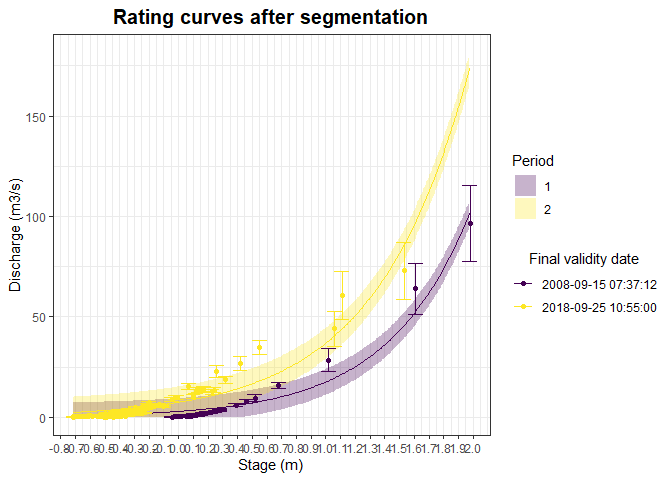
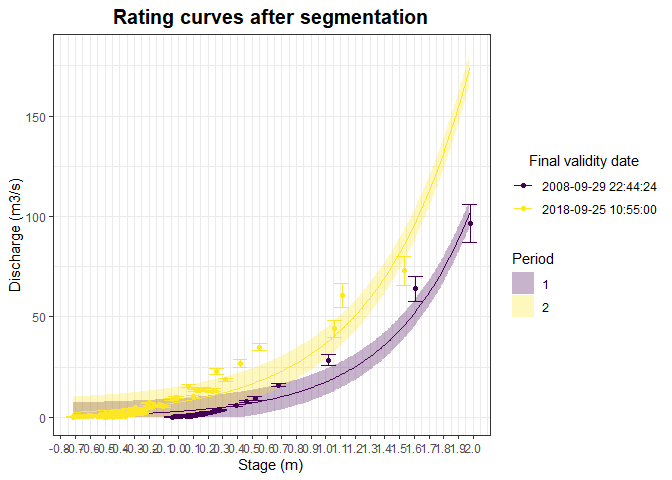
Update ReadMe: - Somme correction about Meyras case during analyzing hydraulic controls - Add new option to integrate uncertainty on gauged height

diff --git a/README.md b/README.md
@@ -291,7 +291,7 @@ be used to estimate the rating curve.
 # Get model available to estimate the rating curve
 GetCatalog()$models
 #> [1] "fitRC_loess"            "fitRC_BaRatinBAC"       "fitRC_BaRatinKAC"      
-#> [4] "fitRC_exponential"      "fitRC_LinearRegression"
+#> [4] "fitRC_exponential"      "fitRC_LinearRegression" "fitRecession_M3"
 
 # Get equation of each model
 GetCatalog()$Equations
@@ -334,14 +334,14 @@ knitr::kable(head(ArdecheRiverMeyrasGaugings),
               align = 'c',row.names = F)
 ```
 
-| Day | Month | Year | Hour | Minute | Second |        Date         |  H   |   Q   |   uQ    |
-|:---:|:-----:|:----:|:----:|:------:|:------:|:-------------------:|:----:|:-----:|:-------:|
-|  7  |  11   | 2001 |  16  |   30   |   0    | 2001-11-07 16:30:00 | 0.17 | 1.520 | 0.10640 |
-|  4  |  12   | 2001 |  14  |   45   |   0    | 2001-12-04 14:45:00 | 0.10 | 0.727 | 0.05089 |
-| 10  |   1   | 2002 |  14  |   0    |   0    | 2002-01-10 14:00:00 | 0.06 | 0.500 | 0.03500 |
-| 13  |   2   | 2002 |  16  |   45   |   0    | 2002-02-13 16:45:00 | 0.08 | 1.110 | 0.07770 |
-| 23  |   4   | 2002 |  17  |   45   |   0    | 2002-04-23 17:45:00 | 0.17 | 1.740 | 0.12180 |
-|  2  |   5   | 2002 |  13  |   40   |   0    | 2002-05-02 13:40:00 | 0.22 | 2.370 | 0.16590 |
+| Day | Month | Year | Hour | Minute | Second |        Date         |  H   |   Q   |   uQ   |
+|:---:|:-----:|:----:|:----:|:------:|:------:|:-------------------:|:----:|:-----:|:------:|
+|  7  |  11   | 2001 |  16  |   30   |   0    | 2001-11-07 16:30:00 | 0.17 | 1.520 | 0.0532 |
+|  4  |  12   | 2001 |  14  |   45   |   0    | 2001-12-04 14:45:00 | 0.10 | 0.727 | 0.0254 |
+| 10  |   1   | 2002 |  14  |   0    |   0    | 2002-01-10 14:00:00 | 0.06 | 0.500 | 0.0175 |
+| 13  |   2   | 2002 |  16  |   45   |   0    | 2002-02-13 16:45:00 | 0.08 | 1.110 | 0.0389 |
+| 23  |   4   | 2002 |  17  |   45   |   0    | 2002-04-23 17:45:00 | 0.17 | 1.740 | 0.0609 |
+|  2  |   5   | 2002 |  13  |   40   |   0    | 2002-05-02 13:40:00 | 0.22 | 2.370 | 0.0829 |
 
 ## Recursive model and segmentation procedure for an *unknown* number of segments
 
@@ -370,14 +370,14 @@ knitr::kable(head(results$summary$data),
              align = 'c',row.names = FALSE)
 ```
 
-|        time         |  H   |   Q   |   uQ    | Q_I95_lower | Q_I95_upper |   Qsim   |  uQ_sim  | Qsim_I95_lower | Qsim_I95_upper |   Qres    | period |
-|:-------------------:|:----:|:-----:|:-------:|:-----------:|:-----------:|:--------:|:--------:|:--------------:|:--------------:|:---------:|:------:|
-| 2001-11-07 16:30:00 | 0.17 | 1.520 | 0.10640 |  1.3114598  |  1.7285402  | 3.927984 | 3.281194 |   -2.503038    |   10.359006    | -2.407984 |   1    |
-| 2001-12-04 14:45:00 | 0.10 | 0.727 | 0.05089 |  0.6272574  |  0.8267426  | 3.462622 | 3.281194 |   -2.968400    |    9.893644    | -2.735622 |   1    |
-| 2002-01-10 14:00:00 | 0.06 | 0.500 | 0.03500 |  0.4314013  |  0.5685987  | 3.221893 | 3.281194 |   -3.209129    |    9.652915    | -2.721893 |   1    |
-| 2002-02-13 16:45:00 | 0.08 | 1.110 | 0.07770 |  0.9577108  |  1.2622892  | 3.340089 | 3.281194 |   -3.090933    |    9.771111    | -2.230090 |   1    |
-| 2002-04-23 17:45:00 | 0.17 | 1.740 | 0.12180 |  1.5012764  |  1.9787236  | 3.927984 | 3.281194 |   -2.503038    |   10.359006    | -2.187984 |   1    |
-| 2002-05-02 13:40:00 | 0.22 | 2.370 | 0.16590 |  2.0448420  |  2.6951580  | 4.298207 | 3.281194 |   -2.132815    |   10.729229    | -1.928207 |   1    |
+|        time         |  H   | uH  |   Q   |   uQ   | Q_I95_lower | Q_I95_upper |   Qsim   |  uQ_sim  | Qsim_I95_lower | Qsim_I95_upper |   Qres    | period |
+|:-------------------:|:----:|:---:|:-----:|:------:|:-----------:|:-----------:|:--------:|:--------:|:--------------:|:--------------:|:---------:|:------:|
+| 2001-11-07 16:30:00 | 0.17 |  0  | 1.520 | 0.0532 |  1.4157299  |  1.6242701  | 3.927984 | 3.281194 |   -2.503038    |   10.359006    | -2.407984 |   1    |
+| 2001-12-04 14:45:00 | 0.10 |  0  | 0.727 | 0.0254 |  0.6772169  |  0.7767831  | 3.462622 | 3.281194 |   -2.968400    |    9.893644    | -2.735622 |   1    |
+| 2002-01-10 14:00:00 | 0.06 |  0  | 0.500 | 0.0175 |  0.4657006  |  0.5342994  | 3.221893 | 3.281194 |   -3.209129    |    9.652915    | -2.721893 |   1    |
+| 2002-02-13 16:45:00 | 0.08 |  0  | 1.110 | 0.0389 |  1.0337574  |  1.1862426  | 3.340089 | 3.281194 |   -3.090933    |    9.771111    | -2.230090 |   1    |
+| 2002-04-23 17:45:00 | 0.17 |  0  | 1.740 | 0.0609 |  1.6206382  |  1.8593618  | 3.927984 | 3.281194 |   -2.503038    |   10.359006    | -2.187984 |   1    |
+| 2002-05-02 13:40:00 | 0.22 |  0  | 2.370 | 0.0829 |  2.2075190  |  2.5324810  | 4.298207 | 3.281194 |   -2.132815    |   10.729229    | -1.928207 |   1    |
 
 ``` r
 
@@ -388,7 +388,7 @@ knitr::kable(head(results$summary$shift),
 
 |         tau         |      I95_lower      |      I95_upper      | id_iteration |
 |:-------------------:|:-------------------:|:-------------------:|:------------:|
-| 2008-09-15 07:37:12 | 2006-09-15 20:12:07 | 2010-02-21 03:44:38 |      1       |
+| 2008-09-29 22:44:24 | 2006-11-17 21:03:57 | 2009-10-01 22:51:14 |      1       |
 
 ``` r
 
@@ -575,14 +575,14 @@ station](https://baratin-tools.github.io/en/doc/case/ardeche-meyras/#prior-speci
 
 ``` r
 # Set prior information to each hydraulic control 
-a1=RBaM::parameter(name='a1',init=14.17,prior.dist='LogNormal',prior.par=c(2.66,1.54))
-k1=RBaM::parameter(name='k1',init=-0.6,prior.dist='Gaussian',prior.par=c(-0.6,1))
+a1=RBaM::parameter(name='a1',init=14.17,prior.dist='Gaussian',prior.par=c(14.17,3.65))
+k1=RBaM::parameter(name='k1',init=-0.6,prior.dist='Gaussian',prior.par=c(-0.6,0.5))
 c1=RBaM::parameter(name='c1',init=1.5,prior.dist='Gaussian',prior.par=c(1.5,0.025))
-a2=RBaM::parameter(name='a2',init=26.5165,prior.dist='LogNormal',prior.par=c(3.28,0.36))
-k2=RBaM::parameter(name='k2',init=0,prior.dist='Gaussian',prior.par=c(0,1))
+a2=RBaM::parameter(name='a2',init=26.5,prior.dist='Gaussian',prior.par=c(26.5,8.4))
+k2=RBaM::parameter(name='k2',init=0,prior.dist='Gaussian',prior.par=c(0,0.5))
 c2=RBaM::parameter(name='c2',init=1.67,prior.dist='Gaussian',prior.par=c(1.67,0.025))
-a3=RBaM::parameter(name='a3',init=31.82,prior.dist='LogNormal',prior.par=c(3.46,0.397))
-k3=RBaM::parameter(name='k3',init=1.2,prior.dist='Gaussian',prior.par=c(1.2,0.4))
+a3=RBaM::parameter(name='a3',init=31.82,prior.dist='Gaussian',prior.par=c(31.8,10.9))
+k3=RBaM::parameter(name='k3',init=1.2,prior.dist='Gaussian',prior.par=c(1.2,0.2))
 c3=RBaM::parameter(name='c3',init=1.67,prior.dist='Gaussian',prior.par=c(1.67,0.025))
 
 # Set a list of the same parameters for all controls
@@ -620,7 +620,7 @@ resultsBaRatin=recursive.ModelAndSegmentation(H=ArdecheRiverMeyrasGaugings$H,
  # Terminal nodes
  terminal = resultsBaRatin$tree$indx[which(resultsBaRatin$tree$nS==1)]
  terminal
-#> [1]  2  5  7  8  9 11 12
+#> [1]  2  5  6  7  9 10
 ```
 
 Plot the rating curves after using BaRatin method. It is possible to
@@ -665,11 +665,6 @@ for plotting the rating curve.
 
 <img src="man/readme/README-unnamed-chunk-12-6.png" width="100%" />
 
-    #> 
-    #> [[7]]
-
-<img src="man/readme/README-unnamed-chunk-12-7.png" width="100%" />
-
 ``` r
 
  # Plot shift times in stage record
@@ -677,7 +672,7 @@ for plotting the rating curve.
                              plot_summary=resultsBaRatin$plot)$final_plot
 ```
 
-<img src="man/readme/README-unnamed-chunk-12-8.png" width="100%" />
+<img src="man/readme/README-unnamed-chunk-12-7.png" width="100%" />
 
 ``` r
 
@@ -686,7 +681,7 @@ for plotting the rating curve.
                              plot_summary=resultsBaRatin$plot)$final_plot
 ```
 
-<img src="man/readme/README-unnamed-chunk-12-9.png" width="100%" />
+<img src="man/readme/README-unnamed-chunk-12-8.png" width="100%" />
 
 ``` r
 
@@ -695,7 +690,97 @@ for plotting the rating curve.
                                    plot_summary=resultsBaRatin$plot)$final_plot
 ```
 
-<img src="man/readme/README-unnamed-chunk-12-10.png" width="100%" />
+<img src="man/readme/README-unnamed-chunk-12-9.png" width="100%" />
+
+Uncertainty associated to water level measurements during low flows
+could lead to a very high uncertainty when comparing with the rating
+curve, due to the low sensitivity of control during low flows. As a
+result, it was often necessary to be even more cautious when deciding to
+change the curve based on these measurements. That’s why, it is possible
+to account for the uncertainty in the gauged height, which increases the
+overall uncertainty when estimating the uncertainty of the residuals to
+compensate for the issue identified.
+
+``` r
+# Apply recursive model and segmentation with BaRatin multi-control method. Assumption, 0.05 m for uncertainty in th gauged height
+resultsBaRatinWithuH=recursive.ModelAndSegmentation(H=ArdecheRiverMeyrasGaugings$H,
+                                                    Q=ArdecheRiverMeyrasGaugings$Q,
+                                                    time=ArdecheRiverMeyrasGaugings$Date,
+                                                    uQ=ArdecheRiverMeyrasGaugings$uQ,
+                                                    uH=rep(0.05,length(ArdecheRiverMeyrasGaugings$H)),nSmax=3,
+                                                    nMin=2,
+                                                    funk=fitRC_BaRatinKAC,
+                                                    a.object=a.object,
+                                                    k.object=k.object,
+                                                    c.object=c.object,
+                                                    controlMatrix=controlMatrix
+                                                    )
+
+ # Visualize tree structure
+ plotTree(resultsBaRatinWithuH$tree)
+```
+
+<img src="man/readme/README-unnamed-chunk-13-1.png" width="100%" />
+
+``` r
+
+ # Terminal nodes
+ terminal = resultsBaRatinWithuH$tree$indx[which(resultsBaRatinWithuH$tree$nS==1)]
+ terminal
+#> [1] 2 3 5 6
+
+ plotRCPrediction(Hgrid=data.frame(seq(-1,2,by=0.01)),
+                  autoscale=FALSE,
+                  temp.folder=file.path(tempdir(),'BaM'),
+                  CalibrationData='CalibrationData.txt',
+                  allnodes=FALSE,
+                  nodes=terminal)
+#> [[1]]
+```
+
+<img src="man/readme/README-unnamed-chunk-13-2.png" width="100%" />
+
+    #> 
+    #> [[2]]
+
+<img src="man/readme/README-unnamed-chunk-13-3.png" width="100%" />
+
+    #> 
+    #> [[3]]
+
+<img src="man/readme/README-unnamed-chunk-13-4.png" width="100%" />
+
+    #> 
+    #> [[4]]
+
+<img src="man/readme/README-unnamed-chunk-13-5.png" width="100%" />
+
+``` r
+
+ # Plot shift times in stage record
+ plot_H_ModelAndSegmentation(summary=resultsBaRatinWithuH$summary,
+                             plot_summary=resultsBaRatinWithuH$plot)$final_plot
+```
+
+<img src="man/readme/README-unnamed-chunk-13-6.png" width="100%" />
+
+``` r
+
+ # Plot shift times in discharge observations
+ plot_Q_ModelAndSegmentation(summary=resultsBaRatinWithuH$summary,
+                             plot_summary=resultsBaRatinWithuH$plot)$final_plot
+```
+
+<img src="man/readme/README-unnamed-chunk-13-7.png" width="100%" />
+
+``` r
+
+ # Plot residual
+ plotResidual_ModelAndSegmentation(summary=resultsBaRatinWithuH$summary,
+                                   plot_summary=resultsBaRatinWithuH$plot)$final_plot
+```
+
+<img src="man/readme/README-unnamed-chunk-13-8.png" width="100%" />
 
 ## Références
 
